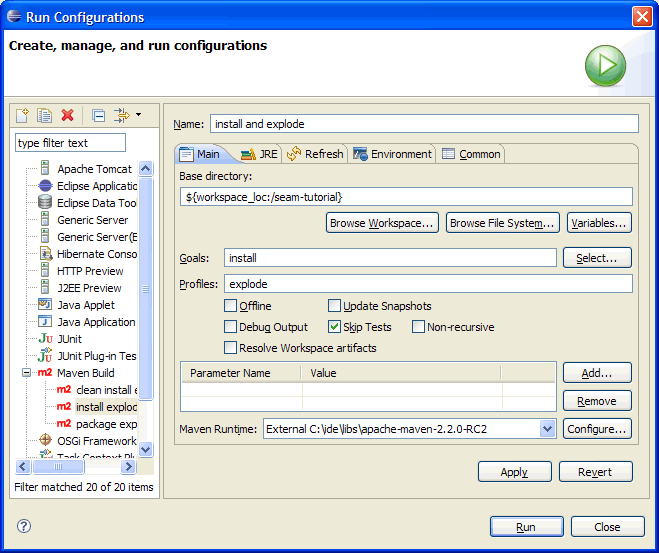
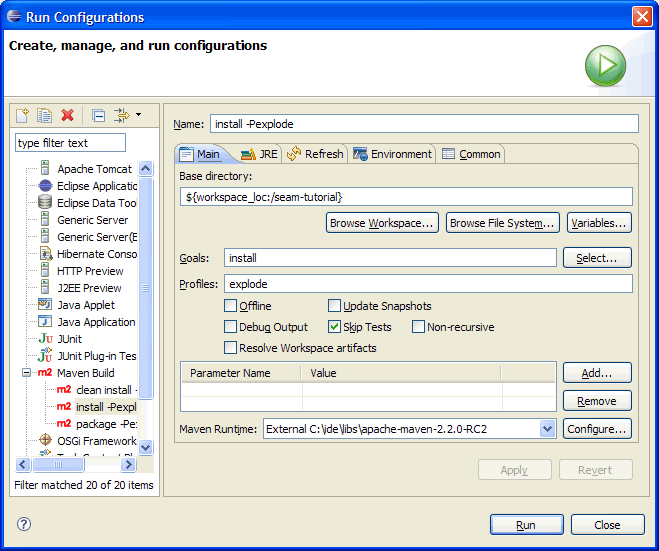
updated doc/tutorial/02-eclipse.html

diff --git a/doc/tutorial/02-eclipse.html b/doc/tutorial/02-eclipse.html
@@ -110,8 +110,8 @@
     <img src="img/eclipse-run-configurations-02.png" style="width:640px; display:block;" />
     <img src="img/eclipse-run-configurations-03.png" style="width:640px; display:block;" />
     <img src="img/eclipse-run-configurations-04.png" style="width:640px; display:block;" />
-    Run the <code>clean install and explode</code> Run Configurations to deploy the project to the 
-    server the first time. In <code>profiles.xml</code>, remember to point the server to the correct 
+    Run the <code>clean install -Pexplode</code> Run Configurations to deploy the project to the 
+    server the first time. In <code>profiles.xml</code>: remember to point the server to the correct 
     deploy folder.
   </li>
   <li>
